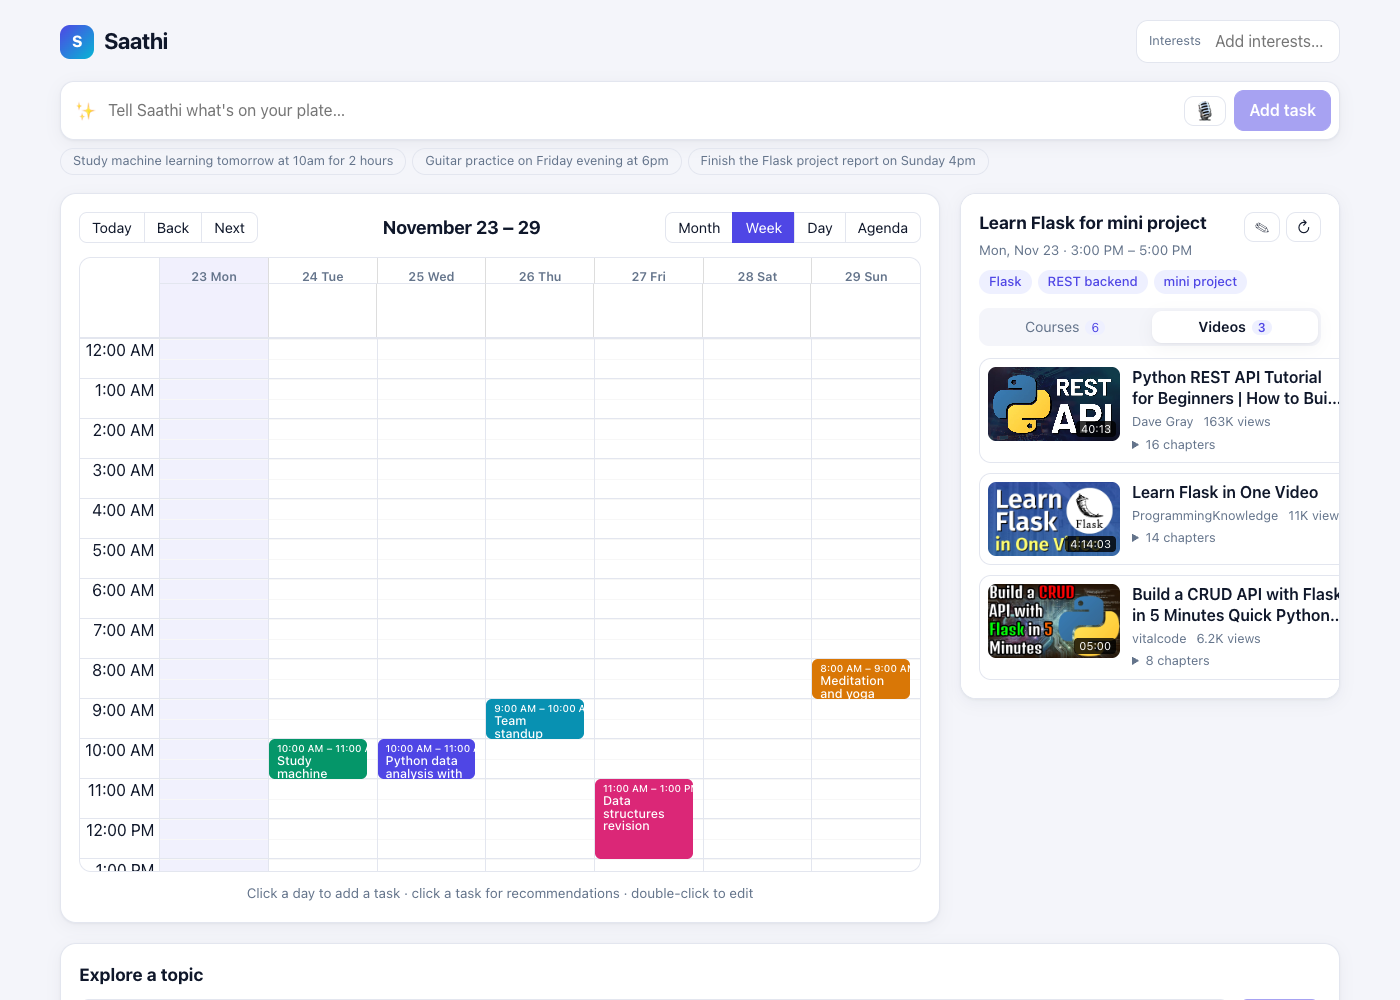
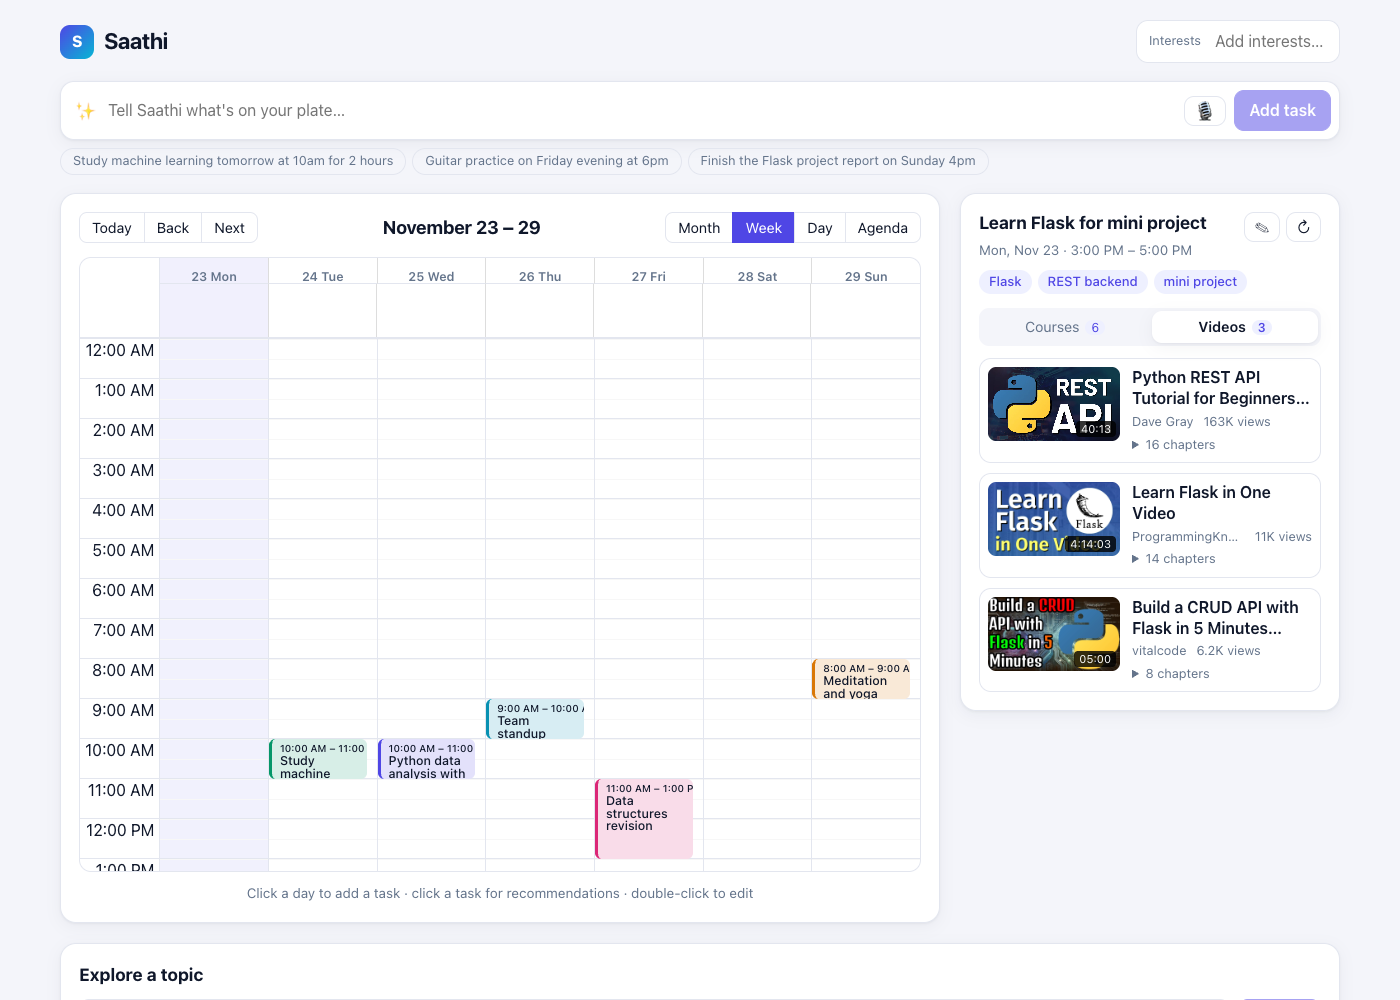
Use pastel task colors, fix layout bugs, update README and screenshots

diff --git a/frontend/src/App.css b/frontend/src/App.css
@@ -79,7 +79,7 @@ main { display: grid; grid-template-columns: minmax(0, 1fr) 380px; gap: 20px; al
 .count { margin-left: 6px; font-size: 0.75rem; padding: 0 6px; border-radius: 999px; background: var(--accent-soft); color: var(--accent); }
 
 /* ---------- cards ---------- */
-.cards { list-style: none; margin: 0; padding: 0; display: grid; gap: 10px; }
+.cards { list-style: none; margin: 0; padding: 0; display: grid; grid-template-columns: minmax(0, 1fr); gap: 10px; }
 .card { border: 1px solid var(--border); border-radius: 12px; padding: 10px 12px; display: flex; flex-direction: column; gap: 6px; transition: border-color 0.15s; }
 .card:hover { border-color: var(--accent); }
 .card-title { font-weight: 600; color: var(--text); text-decoration: none; line-height: 1.3; }
@@ -139,12 +139,18 @@ summary { cursor: pointer; }
 .rbc-off-range { color: var(--muted); opacity: 0.55; }
 .rbc-off-range-bg { background: color-mix(in srgb, var(--muted) 8%, transparent); }
 .rbc-today { background: color-mix(in srgb, var(--accent) 8%, transparent); }
-.rbc-event.evt { border: none; border-radius: 6px; padding: 2px 8px; font-size: 0.78rem; font-weight: 500; color: #fff; }
+.rbc-event.evt { border: none; border-left: 3px solid var(--evt); border-radius: 6px; padding: 2px 8px; font-size: 0.78rem; font-weight: 500;
+  color: var(--text); background: color-mix(in srgb, var(--evt) 16%, var(--surface)); }
+.rbc-agenda-view tr.evt > td:not(.rbc-agenda-date-cell) { background: color-mix(in srgb, var(--evt) 14%, var(--surface)); color: var(--text); }
+.rbc-agenda-view tr.evt > .rbc-agenda-time-cell { border-left: 3px solid var(--evt); }
 .rbc-event.evt.selected, .rbc-event.evt:focus { outline: 2px solid var(--text); outline-offset: 1px; }
 .rbc-show-more { color: var(--accent); font-weight: 600; background: transparent; }
 .rbc-time-content, .rbc-time-header-content, .rbc-time-header.rbc-overflowing { border-color: var(--border); }
 .rbc-current-time-indicator { background: var(--danger); }
 .rbc-agenda-view table.rbc-agenda-table { border-color: var(--border); }
+.rbc-agenda-view table.rbc-agenda-table tbody > tr > td { border-top: 1px solid var(--border); }
+.rbc-agenda-view table.rbc-agenda-table tbody > tr > td + td { border-left: 1px solid var(--border); }
+.rbc-agenda-view table.rbc-agenda-table thead > tr > th { border-bottom: 1px solid var(--border); }
 .rbc-agenda-view table.rbc-agenda-table thead > tr > th { color: var(--muted); }
 .rbc-overlay { background: var(--surface); border-color: var(--border); box-shadow: var(--shadow); }
 .rbc-overlay-header { border-color: var(--border); }

diff --git a/frontend/src/App.js b/frontend/src/App.js
@@ -131,7 +131,7 @@ export default function App() {
 
   const eventProps = (event) => ({
     className: event.id === selectedId ? "evt selected" : "evt",
-    style: { backgroundColor: COLORS[event.id % COLORS.length] },
+    style: { "--evt": COLORS[event.id % COLORS.length] },
   });
 
   return (

diff --git a/README.md b/README.md
@@ -136,6 +136,8 @@ Open **http://localhost:3000**. The dev server forwards `/api` requests to `http
 | Tune course results            | Add interests (for example `python`) in the header; they are saved and affect course ranking                      |
 | Look up a topic without a task | Use **Explore a topic** at the bottom                                                                         |
 
+Each task gets one of six colors, shown as a light tint with a colored stripe in the month, week, day and agenda views. Your tasks are saved in a local database file; see [Data model](#data-model).
+
 ## How it works
 
 ### The big picture
@@ -322,6 +324,8 @@ curl "http://127.0.0.1:5001/api/courses?q=machine%20learning"
 
 SQLite, created automatically by Flask-SQLAlchemy on first run.
 
+**Where your tasks live:** every task you add is saved to the file `backend/instance/saathi.db`, so tasks survive restarts. The file is in `.gitignore`, so it is not uploaded to GitHub and a fresh clone starts with an empty calendar. To back it up, copy the file while the server is stopped. To start over, stop the server and delete the file; it is recreated empty on the next start. Set `DATABASE_URL` to keep it somewhere else.
+
 | Table              | Columns                                                                                                               | Notes                                                             |
 | ------------------ | --------------------------------------------------------------------------------------------------------------------- | ----------------------------------------------------------------- |
 | `event`          | `id`, `title` (max 100), `start`, `end` (text, ISO 8601), `desc` (max 255)                                  | Times are stored exactly as sent, as text                         |
@@ -403,7 +407,8 @@ The backend has **no automated tests**. It was checked by hand against a clean i
 | Change the prompt Gemini sees                            | The prompt in `extract_keywords` ([backend/keywords.py](backend/keywords.py)) and in `process_command` ([backend/app.py](backend/app.py))                                                     |
 | Use another LLM provider                                 | Replace the body of `generate_json` in [backend/llm.py](backend/llm.py); callers only need a function that returns a dict                                                                      |
 | Add a new kind of recommendation (for example, articles) | Add a module like `videos.py`, call it in `run_recommendation_job`, add a column to `Recommendation`, and add a tab in [Recommendations.js](frontend/src/components/Recommendations.js)    |
-| Change colors or layout                                  | CSS variables at the top of [frontend/src/index.css](frontend/src/index.css); layout rules in [frontend/src/App.css](frontend/src/App.css)                                                        |
+| Change task colors | The `COLORS` list at the top of [frontend/src/App.js](frontend/src/App.js). Each task takes one color by its id, shown as a light tint with a colored left stripe; the tint rules are `.rbc-event.evt` and `.rbc-agenda-view tr.evt` in [frontend/src/App.css](frontend/src/App.css) |
+| Change other colors or layout                                  | CSS variables at the top of [frontend/src/index.css](frontend/src/index.css); layout rules in [frontend/src/App.css](frontend/src/App.css)                                                        |
 
 The API is read by the page through [frontend/src/api.js](frontend/src/api.js), so a new route needs a new function there too. Existing databases are not migrated: adding a column means deleting `backend/instance/saathi.db` (which loses your tasks) or altering the table yourself.
 
